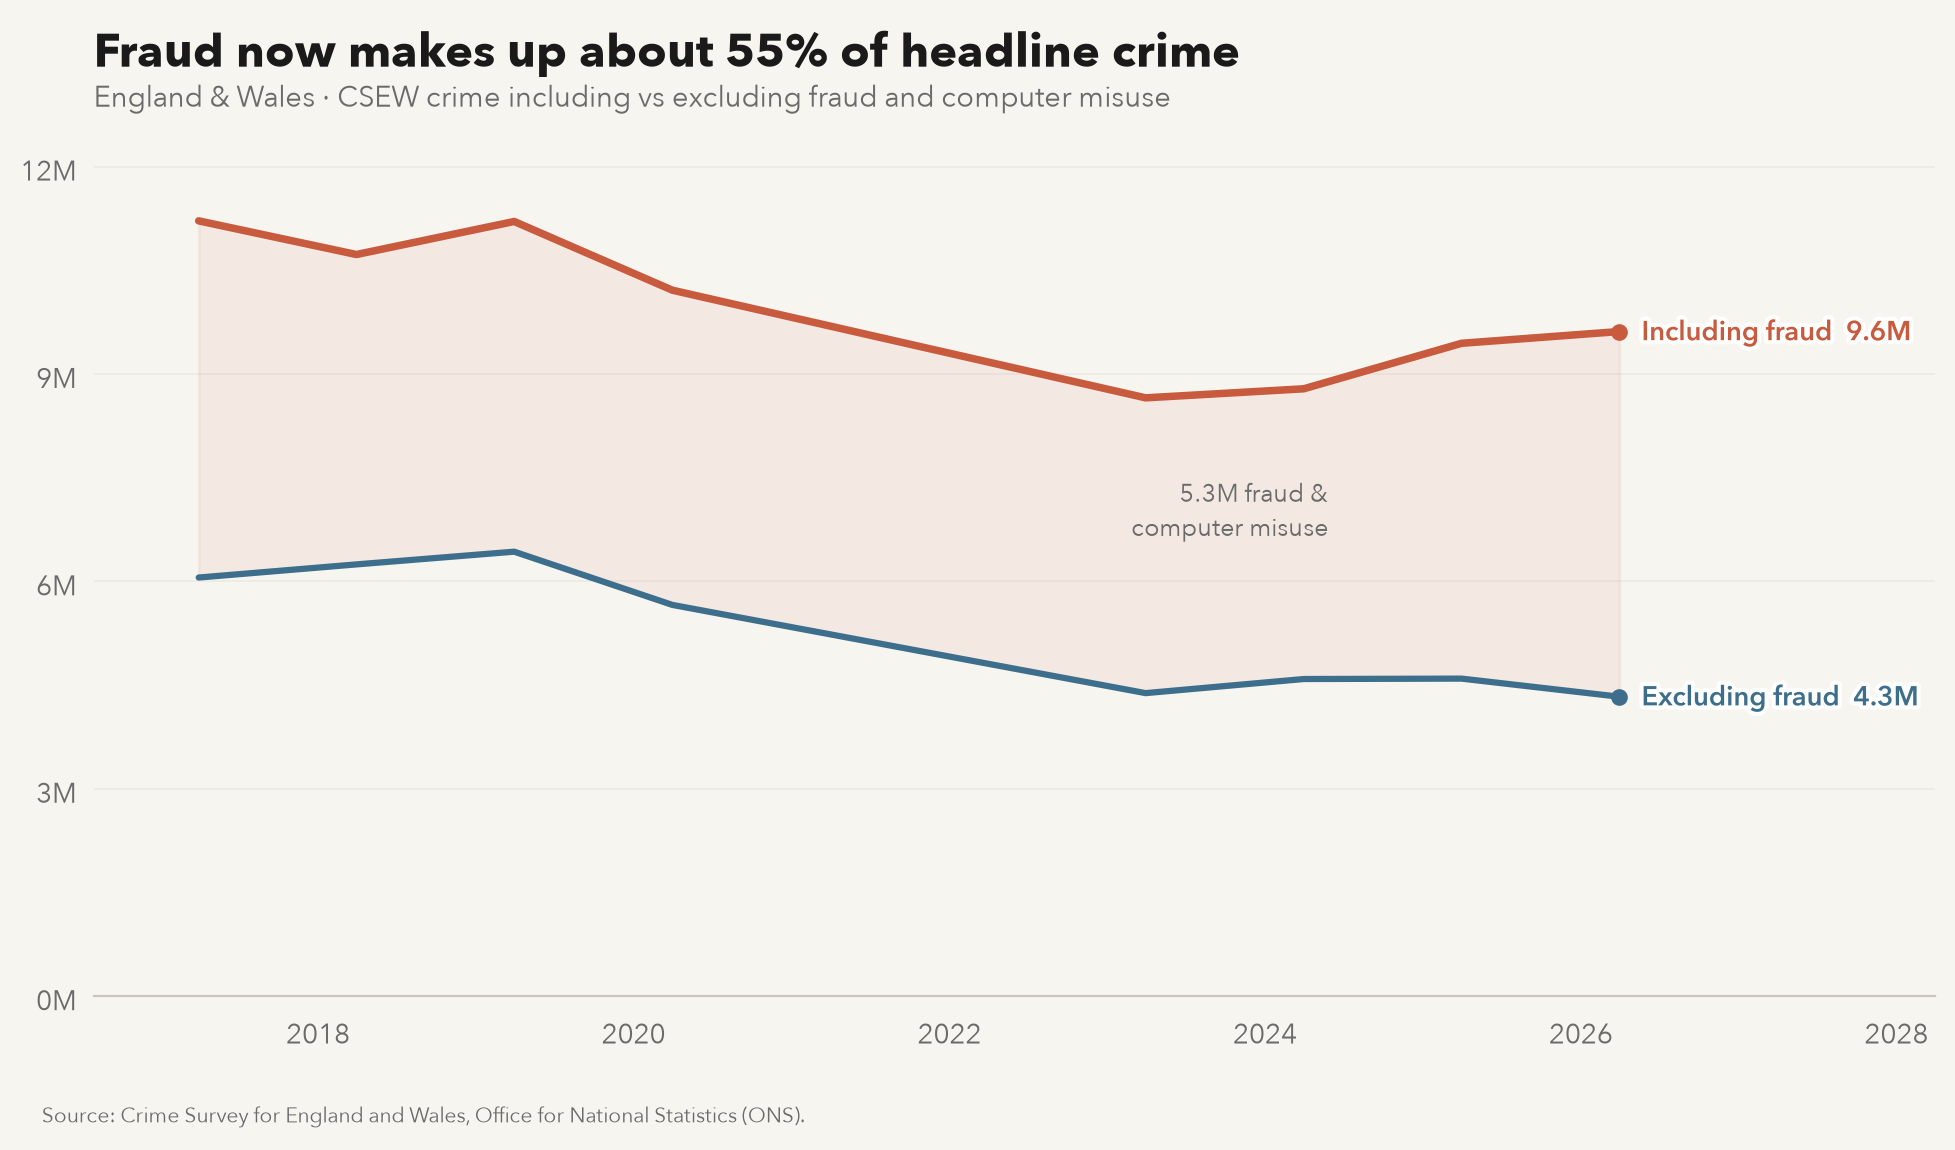
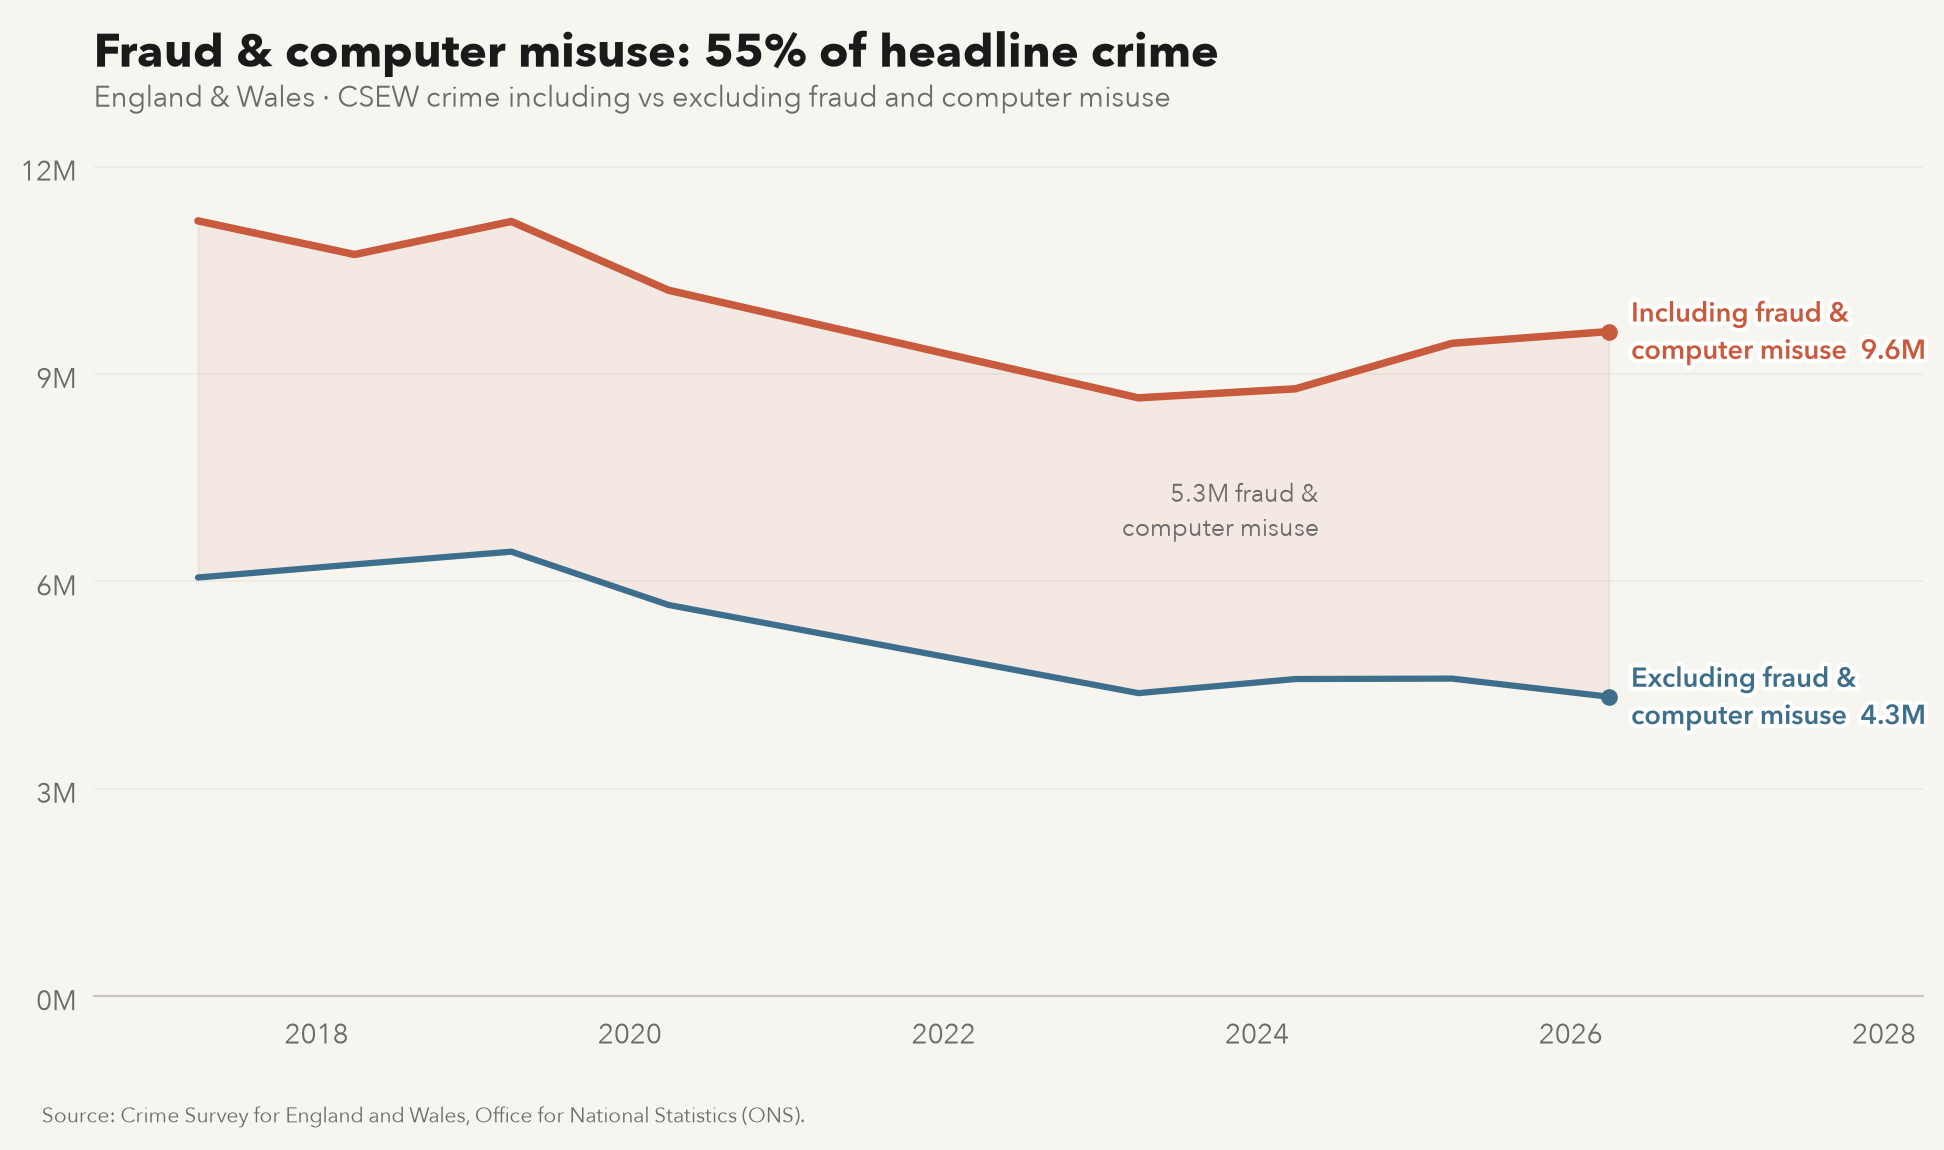
Replace misleading fraud-share overview with comparable crime counts

diff --git a/tests/test_scorecard.py b/tests/test_scorecard.py
@@ -7,26 +7,66 @@ import csv
 import scorecard
 
 
-def test_fraud_share_uses_matching_headline_totals(tmp_path, monkeypatch):
+def test_crime_incidents_uses_excluding_series_and_converts_thousands(tmp_path, monkeypatch):
     path = tmp_path / "crime_csew_long.csv"
-    fields = ["offence_group", "year", "value"]
+    fields = ["offence_group", "year", "date", "value"]
     with path.open("w", newline="") as fh:
         writer = csv.DictWriter(fh, fieldnames=fields)
         writer.writeheader()
-        for year, excl, incl in ((2017, 60, 100), (2018, 50, 100)):
+        for year, excl, incl in ((2026, 4333, 9615), (2007, 11182, "")):
             writer.writerow({
                 "offence_group":
                     "ALL CSEW HEADLINE CRIME EXCLUDING FRAUD AND COMPUTER MISUSE",
                 "year": year,
+                "date": f"{year}-03-31",
                 "value": excl,
             })
             writer.writerow({
                 "offence_group": "ALL CSEW HEADLINE CRIME INCLUDING FRAUD AND COMPUTER MISUSE",
                 "year": year,
+                "date": f"{year}-03-31",
                 "value": incl,
             })
+        writer.writerow({
+            "offence_group":
+                "ALL CSEW HEADLINE CRIME EXCLUDING FRAUD AND COMPUTER MISUSE",
+            "year": 2026,
+            "date": "2026-01-31",
+            "value": 5000,
+        })
+        writer.writerow({
+            "offence_group":
+                "ALL CSEW HEADLINE CRIME EXCLUDING FRAUD AND COMPUTER MISUSE",
+            "year": 2025,
+            "date": "2025-03-31",
+            "value": "",
+        })
     monkeypatch.setattr(scorecard, "DATA", tmp_path)
-    assert scorecard.fraud_share() == ([2017, 2018], [40.0, 50.0])
+    assert scorecard.crime_incidents() == ([2007, 2026], [11_182_000, 4_333_000])
+
+
+def test_crime_panel_shows_counts_and_marks_falling_crime_as_improvement(monkeypatch):
+    monkeypatch.setattr(scorecard, "_rows", lambda path: [
+        {
+            "offence_group":
+                "ALL CSEW HEADLINE CRIME EXCLUDING FRAUD AND COMPUTER MISUSE",
+            "year": year,
+            "date": f"{year}-03-31",
+            "value": value,
+        }
+        for year, value in ((2006, 10863), (2007, 11182), (2026, 4333))
+    ])
+    fig, ax = scorecard.plt.subplots()
+    try:
+        scorecard._panel(ax, *scorecard.PANELS[-1])
+        assert list(ax.lines[0].get_xdata()) == [2007, 2026]
+        assert list(ax.lines[0].get_ydata()) == [11_182_000, 4_333_000]
+        assert ax.lines[0].get_color() == scorecard.BETTER
+        text = " ".join(t.get_text() for t in ax.texts)
+        assert "11.2M in 2007  to  4.3M in 2026" in text
+        assert "excludes fraud & computer misuse" in text
+    finally:
+        scorecard.plt.close(fig)
 
 
 def test_main_reports_all_missing_inputs(tmp_path, monkeypatch, capsys):

diff --git a/scorecard.py b/scorecard.py
@@ -141,20 +141,17 @@ def food_bank_parcels():
     return ys, [pts[y] for y in ys]
 
 
-def fraud_share():
+def crime_incidents():
+    """CSEW incidents excluding fraud and computer misuse, converted from thousands."""
     r = _rows(DATA / "crime_csew_long.csv")
-    excl_name = "ALL CSEW HEADLINE CRIME EXCLUDING FRAUD AND COMPUTER MISUSE"
-    incl_name = "ALL CSEW HEADLINE CRIME INCLUDING FRAUD AND COMPUTER MISUSE"
-    excl = {
-        int(x["year"]): float(x["value"])
-        for x in r if x["offence_group"] == excl_name and x.get("value")
+    name = "ALL CSEW HEADLINE CRIME EXCLUDING FRAUD AND COMPUTER MISUSE"
+    pts = {
+        int(x["year"]): float(x["value"]) * 1_000
+        for x in sorted(r, key=lambda x: x["date"])
+        if x["offence_group"] == name and x.get("value")
     }
-    incl = {
-        int(x["year"]): float(x["value"])
-        for x in r if x["offence_group"] == incl_name and x.get("value")
-    }
-    ys = sorted(set(excl) & set(incl))
-    return ys, [100 * (incl[y] - excl[y]) / incl[y] for y in ys]
+    ys = sorted(pts)
+    return ys, [pts[y] for y in ys]
 
 
 # title, loader, value formatter, good_direction (+1 up-is-good, -1 down-is-good, 0 neutral),
@@ -175,8 +172,8 @@ PANELS = [
      "OECD / Gallup World Poll via OWID", 2007),
     ("Emergency food parcels", food_bank_parcels, lambda v: f"{v/1e6:.1f}M", -1,
      "Trussell · calendar-year UK totals", 2015),
-    ("Fraud share of headline crime", fraud_share, lambda v: f"{v:.0f}%", -1,
-     "ONS Crime Survey for England & Wales", 2017),
+    ("Crime incidents, England & Wales", crime_incidents, lambda v: f"{v/1e6:.1f}M", -1,
+     "ONS CSEW · excludes fraud & computer misuse", 2007),
 ]
 
 

diff --git a/crime_data/charts.py b/crime_data/charts.py
@@ -222,12 +222,12 @@ def chart_fraud_gap(df, out_dir):
     ax.plot(xe, ye, color=BLUE, linewidth=2.25, solid_capstyle="round")
     ax.plot([xi.iloc[-1]], [yi.iloc[-1]], "o", color=ACCENT, markersize=5, zorder=5)
     ax.plot([xe.iloc[-1]], [ye.iloc[-1]], "o", color=BLUE, markersize=5, zorder=5)
-    _end_label(ax, xi.iloc[-1], yi.iloc[-1], f"Including fraud  {yi.iloc[-1]:.1f}M",
+    _end_label(ax, xi.iloc[-1], yi.iloc[-1], f"Including fraud &\ncomputer misuse  {yi.iloc[-1]:.1f}M",
                ACCENT)
-    _end_label(ax, xe.iloc[-1], ye.iloc[-1], f"Excluding fraud  {ye.iloc[-1]:.1f}M",
+    _end_label(ax, xe.iloc[-1], ye.iloc[-1], f"Excluding fraud &\ncomputer misuse  {ye.iloc[-1]:.1f}M",
                BLUE)
 
-    fraud_share = (yi.iloc[-1] - ye.iloc[-1]) / yi.iloc[-1] * 100
+    fraud_and_misuse_share = (yi.iloc[-1] - ye.iloc[-1]) / yi.iloc[-1] * 100
     latest_gap = yi.iloc[-1] - ye.iloc[-1]
     ax.annotate(
         f"{latest_gap:.1f}M fraud &\ncomputer misuse",
@@ -237,7 +237,7 @@ def chart_fraud_gap(df, out_dir):
     )
     _style_incidents_axes(
         ax,
-        f"Fraud now makes up about {fraud_share:.0f}% of headline crime",
+        f"Fraud & computer misuse: {fraud_and_misuse_share:.0f}% of headline crime",
         "England & Wales · CSEW crime including vs excluding fraud and computer misuse",
         max(yi.max(), ye.max()) * 1.12,
     )

diff --git a/tests/test_crime.py b/tests/test_crime.py
@@ -166,6 +166,33 @@ def test_21st_century_chart_filters_out_earlier_data() -> None:
         assert path.is_file()
 
 
+def test_fraud_gap_labels_combined_fraud_and_computer_misuse(monkeypatch) -> None:
+    df = pd.DataFrame([
+        {
+            "offence_group": group,
+            "date": f"{year}-03-31",
+            "value": value,
+            "source": "Test source",
+        }
+        for year, excl, incl in ((2017, 60, 100), (2026, 45, 100))
+        for group, value in ((charts.TOTAL_EXCL, excl), (charts.TOTAL_INCL, incl))
+    ])
+    captured = {}
+
+    def capture(fig, out_dir, filename):
+        ax = fig.axes[0]
+        captured["title"] = ax.get_title(loc="left")
+        captured["labels"] = [text.get_text() for text in ax.texts]
+        charts.plt.close(fig)
+        return out_dir / filename
+
+    monkeypatch.setattr(charts, "_save", capture)
+    charts.chart_fraud_gap(df, Path("."))
+    assert captured["title"] == "Fraud & computer misuse: 55% of headline crime"
+    assert "Including fraud &\ncomputer misuse  0.1M" in captured["labels"]
+    assert "Excluding fraud &\ncomputer misuse  0.0M" in captured["labels"]
+
+
 def test_nation_homicide_rows_start_in_2000() -> None:
     rows = nations._assemble_rows(
         england_wales_rates={1999: 13.0, 2000: 12.5, 2001: 14.0},

diff --git a/README.md b/README.md
@@ -20,6 +20,19 @@ each panel uses the nearest appropriate baseline available from its source.
   <img src="outputs/uk_decline_scorecard.png" width="1200" alt="Eight official indicators showing change in the UK since 2007">
 </p>
 
+The crime panel shows **estimated incidents in England & Wales, excluding fraud and
+computer misuse**, from ONS Crime Survey Table A1a: **11.2 million in the year ending
+March 2007 to 4.3 million in the year ending March 2026**. Lower counts are shown as
+an improvement. This is a long-run survey measure, not all UK crime, a police-recorded
+total, or the percentage of people victimised; it does not cover every offence type.
+See the [crime analysis](crime_data/README.md) for coverage and the separate series
+including fraud and computer misuse.
+
+It replaces a misleadingly labelled "fraud share" panel. That calculation actually
+measured **fraud and computer misuse combined as a share of CSEW headline incidents**,
+not fraud alone or the chance of being a fraud victim. A share can increase simply
+because other crime falls, so it was not a sound standalone worsening indicator.
+
 ## Explore the evidence
 
 **Economy and living standards:** [GDP and incomes](europe_data/README.md),
@@ -65,6 +78,12 @@ Each analysis runs as a module from the repo root, e.g.:
 ```
 
 See each analysis's README for its exact commands and full source citations.
+
+After generating the input CSVs, rebuild the overview image without re-fetching data:
+
+```bash
+./.venv/bin/python scorecard.py
+```
 
 ## Data integrity
 No API keys are required, and no data is fabricated. Downloaded raw data lives under `data/`

diff --git a/crime_data/README.md b/crime_data/README.md
@@ -18,6 +18,12 @@ incomplete: once fraud and computer misuse (measured from 2017) are added, total
 about twice the headline, and specific harms have not all fallen. The charts let the data
 show both sides.
 
+The front-page scorecard uses the **excluding-fraud-and-computer-misuse incident
+count**, starting with the year ending March 2007, so it has a comparable 2007
+baseline. The detailed gap chart retains the combined fraud-and-computer-misuse
+share, but that is a composition measure: it can rise when other crime falls.
+It is neither fraud alone nor the percentage of people experiencing fraud.
+
 ## Data sources & method
 
 Every value is fetched live or parsed **verbatim** from the source; nothing is hand-entered.
